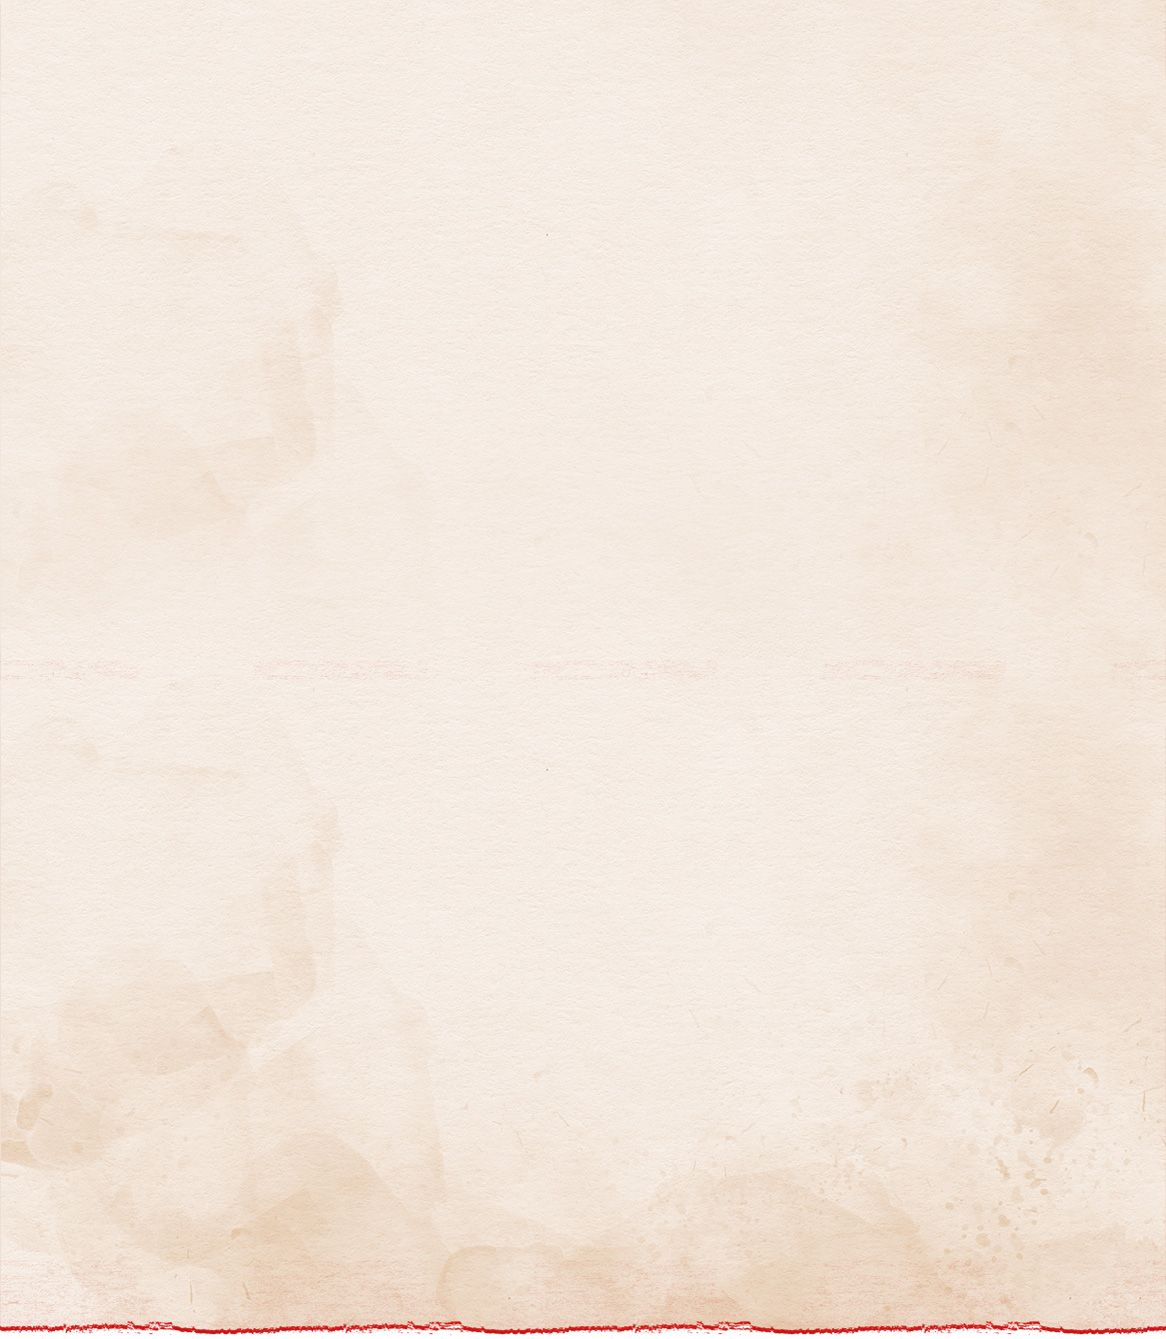
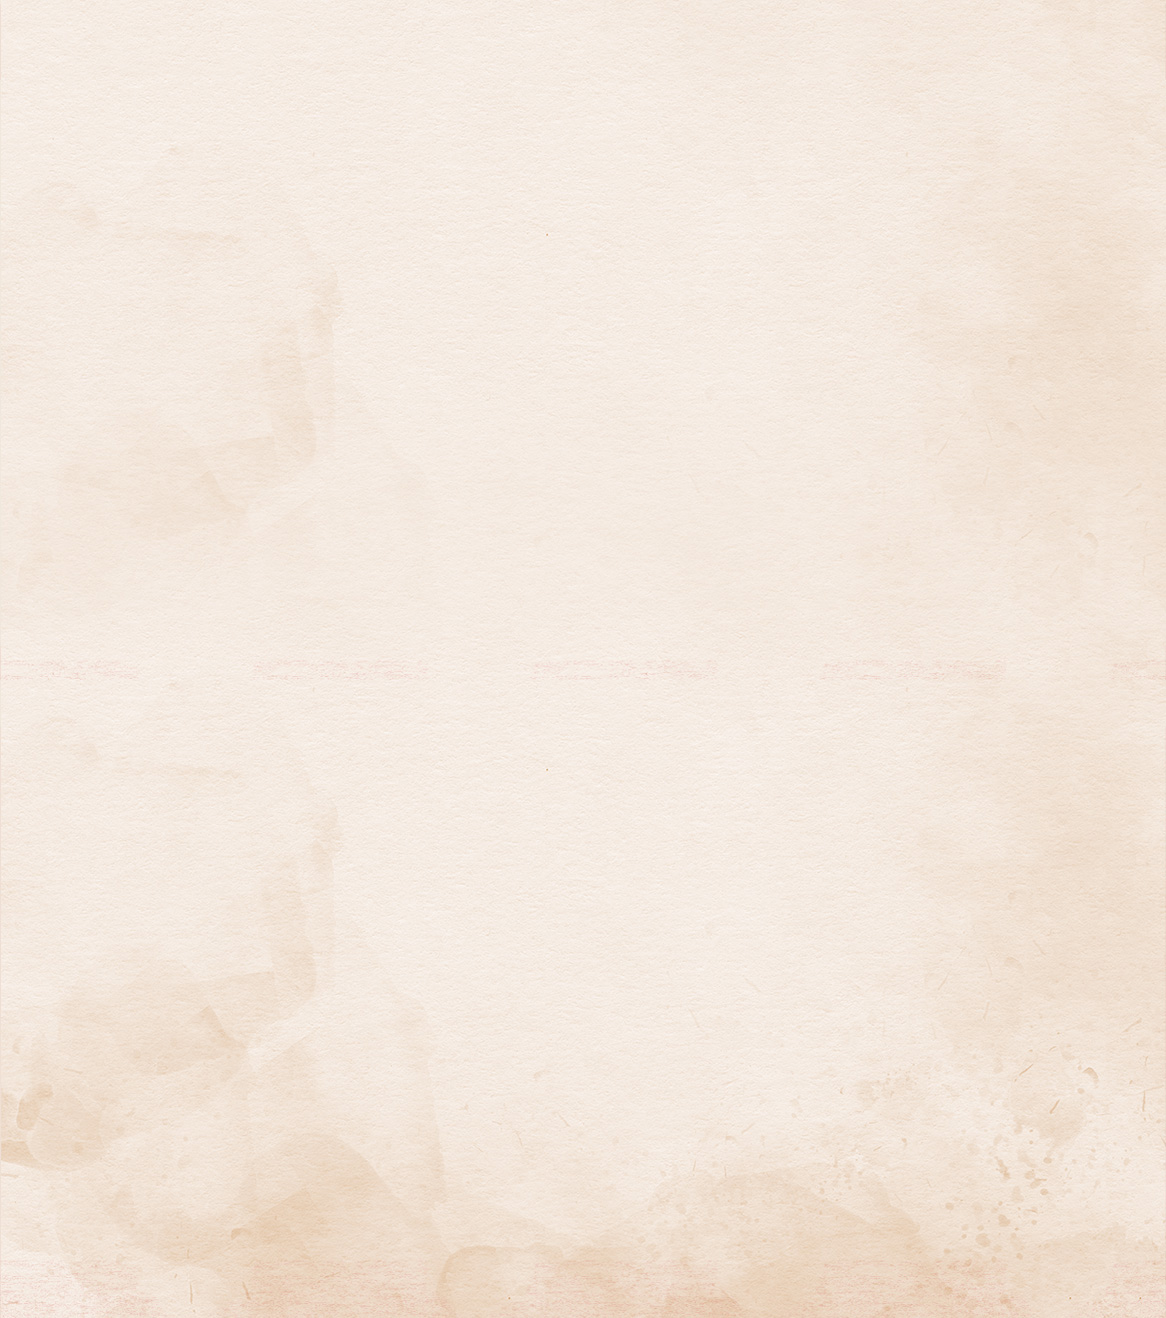
bg fix done

Changed region(s): [[0.0, 0.9332, 1.0, 1.0], [0.8645, 0.871, 0.8954, 0.9021], [0.0, 0.871, 0.0309, 0.9021]]

diff --git a/style-2.css b/style-2.css
@@ -169,6 +169,17 @@
 	background-size: cover !important;
 	background-position: center center !important;
 	padding-bottom: 45px;
+	position: relative;
+}
+.top-wave-img {
+    position: absolute;
+    left: 0;
+    right: 0;
+    bottom:0;
+    z-index: 1;
+    height: 20px;
+    background: center bottom;
+    background-repeat: repeat-x!important;
 }
 .fl-blockquote-head{
     background-repeat: no-repeat !important;

diff --git a/index.html b/index.html
@@ -589,6 +589,7 @@
 </section>
 
 <section class="fl-blockquote-items-sec-wrp lazy" data-src="assets/images/fl-blockquote-items-sec-bg.jpg"> 
+  <span class="top-wave-img lazy" data-src="assets/images/fl-blockquote-items-sec-btm-bg.jpg"></span>
   <div class="container">
     <div class="row">
       <div class="col-sm-12">
